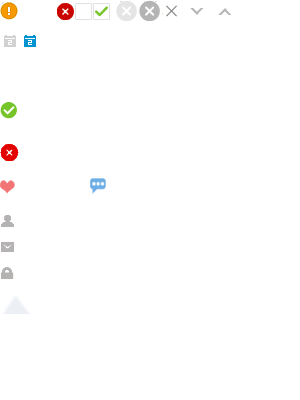
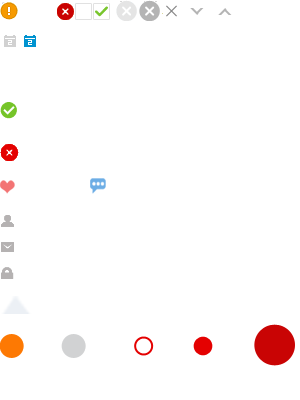
修改背景图片

diff --git a/public/assets/css/product.css b/public/assets/css/product.css
@@ -373,10 +373,8 @@
     border: 1px solid #ffffff;
 }
 .pay-prompt li.active span{
-    border: 1px solid #AF2812;
     color: #AF2812;
-    border-radius: 50%;
-    margin: 5px;
+    background: url("../images/icon-02.png") no-repeat -135px -337px;
 }
 .pay-prompt li.active a{
     color: #AF2812;
@@ -890,14 +888,13 @@
     line-height: 25px;
     text-align: center;
     position: absolute;
-    border-radius: 50%;
-    background: #DBDBDB;
+    background: url("../images/icon-02.png") no-repeat -61px -333px;
     top: 0;
     left: 0;
 }
  .one{
     color: #ffffff;
-    background: #f60;
+    background: url("../images/icon-02.png") no-repeat 0px -333px;
 }
 .sort-list ul li div.longItem{
     background: #EEEEEE;

diff --git a/public/assets/css/common.css b/public/assets/css/common.css
@@ -220,7 +220,9 @@ textarea:focus,input:focus{
     padding:0px 12px;
 }
 .btn-sm{
-    padding:2px 4px;
+    height: 16;
+    line-height: 16px;
+    padding:0px 4px;
 }
 .btn-lg{
     padding:8px 15px;
@@ -1005,8 +1007,7 @@ table tbody tr td{
     line-height: 18px;
     text-align: center;
     color: #FFFFFF;
-    background: #D96D66;
-    border-radius: 50%;
+    background: url("../images/icon-02.png") no-repeat -194px -337px;
     position: absolute;
     top: 0;
     right: 0;

diff --git a/public/assets/css/style.css b/public/assets/css/style.css
@@ -359,13 +359,12 @@
     margin-left:20px;
 }
 .icon-jx{
-    width:40px ;
-    height: 40px;
+    width:42px ;
+    height: 42px;
     text-align: center;
-    line-height: 40px;
-    border: 1px solid #D96D66;
-    background:  #D96D66;
-    border-radius: 50%;
+    line-height: 42px;
+    color: #ffffff;
+    background: url("../images/icon-02.png") no-repeat -254px -325px;
     position: absolute;
     top: 0px;
     right: 0px;

diff --git a/fuel/app/views/index/home.php b/fuel/app/views/index/home.php
@@ -27,9 +27,9 @@
                                 </dd>
                             </dl>
                             <?php if ($getProgress($oitem->phase_id) != 100) { ?>
-                                <?php echo Html::anchor('m/'.$oitem->phase_id, '<button class="buy">去乐拍</button>');?>
+                                <?php echo Html::anchor('m/'.$oitem->phase_id, '<button class="btn btn-red">去乐拍</button>');?>
                             <?php }else{ ?>
-                                <?php echo Html::anchor('w/'.$oitem->phase_id, '<button class="buy">去揭晓</button>');?>
+                                <?php echo Html::anchor('w/'.$oitem->phase_id, '<button class="btn btn-red">去揭晓</button>');?>
                             <?php } ?>
                         </div>
                     </dd>
@@ -51,7 +51,7 @@
                             <div class="price">价值：<b><?php echo $getItemInfo($witem->item_id)->price; ?>.00</b></div>
                             <div class="number">幸运乐拍码：<s><?php echo $witem->code;?></s></div>
                             <div class="datetime">揭晓时间：<s><?php echo \Helper\Timer::friendlyDate($getPhaseInfo($witem->phase_id)->opentime);?></s></div>
-                            <?php echo Html::anchor('m/'.$witem->phase_id, '<button class="buy">查看详情</button>') ;?>
+                            <?php echo Html::anchor('m/'.$witem->phase_id, '<button class="btn btn-sm btn-red">查看详情</button>') ;?>
                         </div>
                     </dd>
                     <?php } ?>
